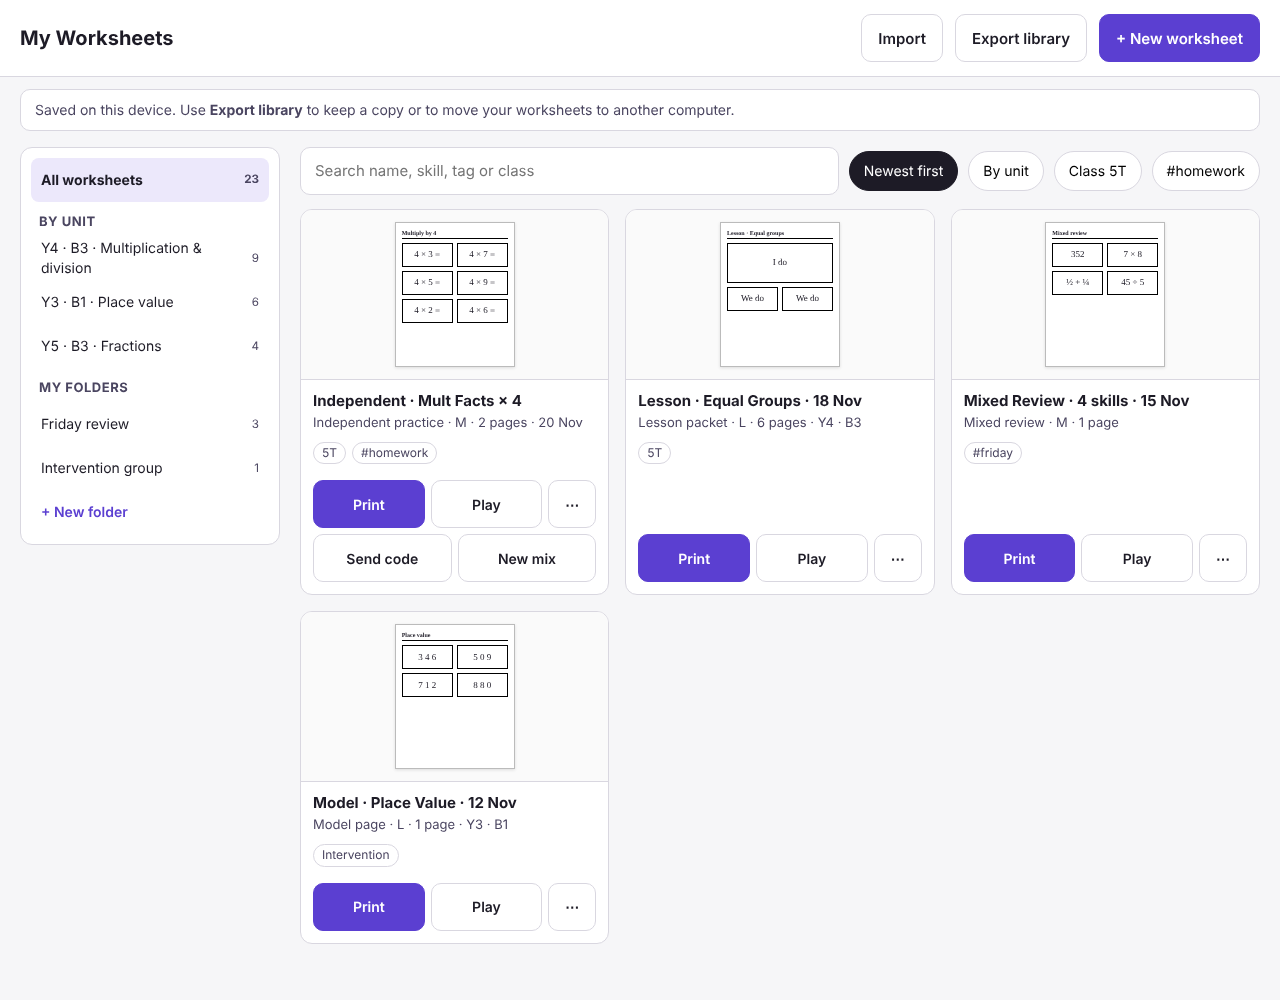
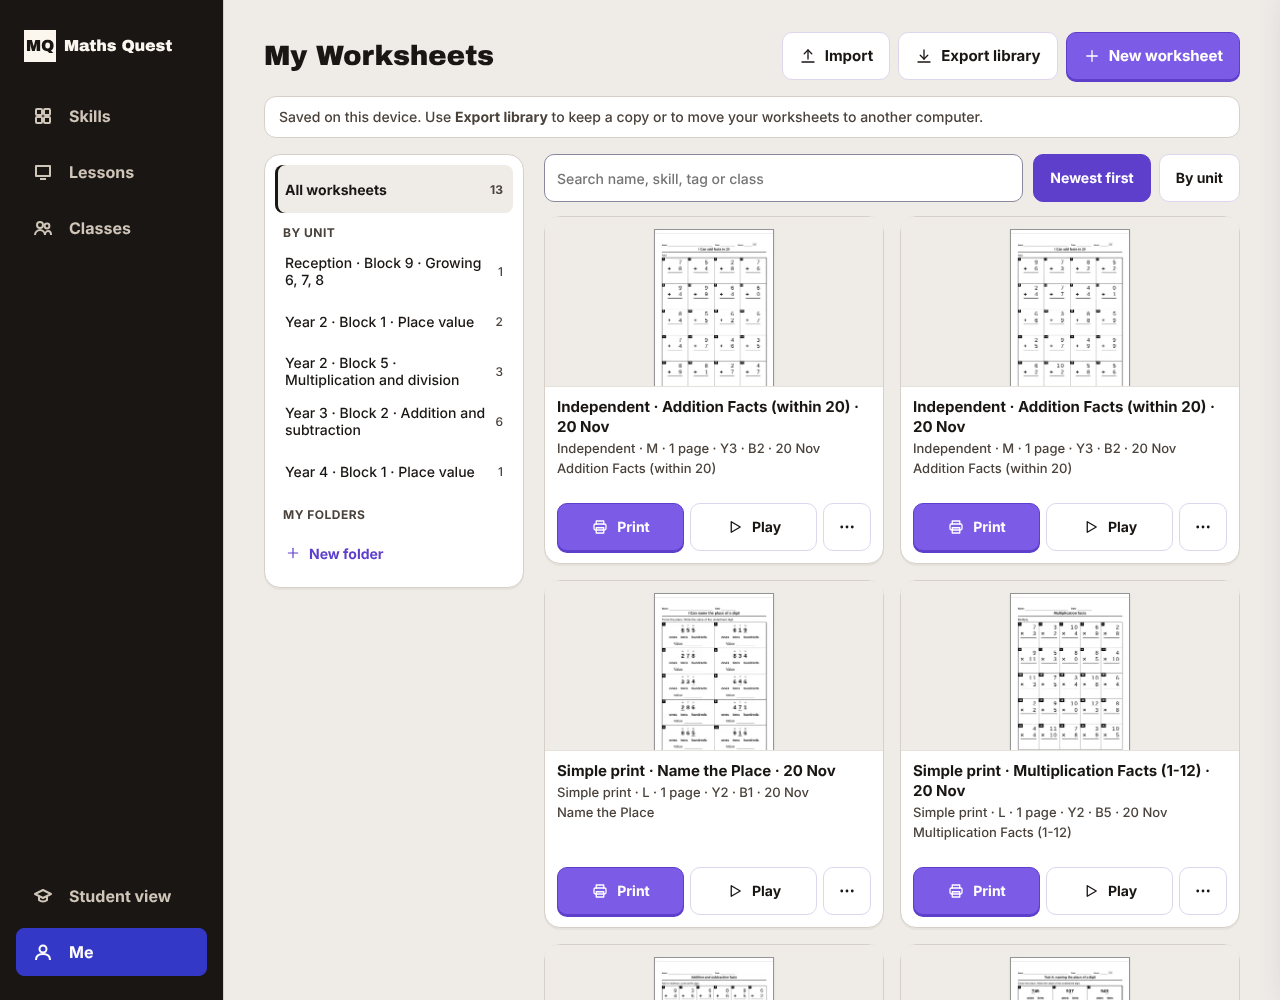
My Worksheets in the current teacher look (lead ruling A19): teacher classes and tokens only, no colour literal; THEME check; mock PNGs re-rendered from the real screen
Claude-Session: https://claude.ai/code/session_013pHDnKp2zeQMdpAwxxnVxS

diff --git a/css/my-worksheets.css b/css/my-worksheets.css
@@ -1,66 +1,63 @@
-/* my-worksheets.css — the My Worksheets screen and its dialogs (design/my-worksheets/CARD.md, mock.html).
-   Loaded by js/modules/my-worksheets.js when first used. Teacher tokens (--tv-*); every control 48 px (card §7). */
+/* my-worksheets.css — the My Worksheets screen and its dialogs (design/my-worksheets/CARD.md).
+   Loaded by js/modules/my-worksheets.js when first used. The CURRENT teacher look (lead ruling A19, owner 2026-11-20): the
+   screen reuses the teacher classes (.tv-btn, .tv-btn-primary, .tv-card, .tv-chip, .tv-menu, .tv-input, .tv-select) and only
+   the existing custom properties (--tv-* and css/teacher-tokens.css); no colour is written here (ws-my-worksheets THEME).
+   Layout and 48 px targets only (card §7). */
 
 .mws { display: flex; flex-direction: column; gap: 16px; }
 #teacherApp .mws .mws-b, .mws .mws-b { height: 48px; min-height: 48px; padding: 0 16px; }
 .mws-top { align-items: center; }
 .mws-acts-top { gap: 8px; }
-.mws-note, .mws-cap { margin: 0; padding: 10px 14px; border: 1px solid var(--tv-rule, #edeaf5); border-radius: 10px; background: var(--tv-surface, #fff); color: var(--tv-text-2, #4a4560); font-size: 14px; line-height: 20px; }
-.mws-cap { border-color: #c2410c; color: var(--tv-text, #1d1b26); }
+.mws-note, .mws-cap { margin: 0; padding: 10px 14px; border: 1px solid var(--tv-border); border-radius: 12px; background: var(--tv-surface); color: var(--tv-text-2); font-size: 14px; line-height: 20px; }
+.mws-cap { border-color: var(--key); color: var(--tv-text); }
 .mws-cap[hidden] { display: none; }
 .mws-wrap { display: grid; grid-template-columns: 260px minmax(0, 1fr); gap: 20px; align-items: start; }
-.mws-side { display: flex; flex-direction: column; gap: 2px; padding: 10px; background: var(--tv-surface, #fff); border: 1px solid var(--tv-rule, #edeaf5); border-radius: 12px; }
-.mws-side-h { margin: 10px 8px 4px; font-size: 12px; line-height: 16px; letter-spacing: .04em; text-transform: uppercase; color: var(--tv-text-2, #4a4560); font-weight: 700; }
-.mws-f { display: flex; align-items: center; justify-content: space-between; gap: 8px; min-height: 48px; padding: 4px 10px; border: 0; border-radius: 8px; background: transparent; color: var(--tv-text, #1d1b26); font: inherit; font-size: 14px; text-align: left; cursor: pointer; }
-.mws-f:hover { background: var(--tv-subtle, #f1eff8); }
-.mws-f[aria-current="true"] { background: var(--tv-accent-tint, #ece8fb); font-weight: 700; }
-.mws-f small { color: var(--tv-text-2, #4a4560); font-size: 12px; flex: none; }
-.mws-f-new { justify-content: flex-start; color: var(--tv-accent, #5b3fd1); font-weight: 700; }
+.mws .mws-side { padding: 10px; gap: 2px; }
+.mws-side-h { margin: 10px 8px 4px; font-size: 12px; line-height: 16px; letter-spacing: .04em; text-transform: uppercase; color: var(--tv-text-2); font-weight: 700; }
+.mws-f { display: flex; align-items: center; justify-content: space-between; gap: 8px; min-height: 48px; padding: 4px 10px; border: 0; border-radius: 8px; background: transparent; color: var(--tv-text); font: inherit; font-size: 14px; text-align: left; cursor: pointer; }
+.mws-f:hover { background: var(--tv-subtle); }
+.mws-f[aria-current="true"] { background: var(--tv-subtle); box-shadow: inset 3px 0 0 var(--tv-selected); font-weight: 700; }
+.mws-f small { color: var(--tv-text-2); font-size: 12px; flex: none; }
+.mws-f-new { justify-content: flex-start; color: var(--tv-accent); font-weight: 700; }
 .mws-main { min-width: 0; display: flex; flex-direction: column; gap: 14px; }
 .mws-bar { display: flex; flex-wrap: wrap; gap: 10px; align-items: center; }
 .mws-pick-l { display: none; }
-.mws-pick { min-height: 48px; padding: 0 12px; border: 1px solid var(--tv-control-soft, #d9d7e0); border-radius: 999px; background: var(--tv-surface, #fff); color: var(--tv-text, #1d1b26); font: inherit; font-size: 14px; max-width: 100%; }
-.mws-search { flex: 1 1 240px; min-width: 0; min-height: 48px; padding: 0 14px; border: 1px solid var(--tv-control-soft, #d9d7e0); border-radius: 10px; background: var(--tv-surface, #fff); color: var(--tv-text, #1d1b26); font: inherit; font-size: 15px; }
+.mws .tv-select.mws-pick { width: auto; max-width: 100%; height: 48px; min-height: 48px; }
+.mws .tv-input.mws-search { flex: 1 1 240px; width: auto; min-width: 0; height: 48px; min-height: 48px; }
 .mws-chips { display: flex; flex-wrap: wrap; gap: 8px; }
-.mws-chip { min-height: 48px; padding: 0 16px; border: 1px solid var(--tv-control-soft, #d9d7e0); border-radius: 999px; background: var(--tv-surface, #fff); color: var(--tv-text, #1d1b26); font: inherit; font-size: 14px; cursor: pointer; }
-.mws-chip[aria-pressed="true"] { background: var(--tv-selected, #1d1b26); border-color: var(--tv-selected, #1d1b26); color: var(--tv-on-selected, #fff); font-weight: 700; }
+.mws .tv-chip.mws-chip { height: 48px; min-height: 48px; padding: 0 16px; }
 .mws-folderline { display: flex; flex-wrap: wrap; align-items: center; gap: 8px; }
 .mws-folderline[hidden] { display: none; }
-.mws-folderline b { margin-right: 8px; }
+.mws-folderline b { margin-right: 8px; color: var(--tv-text); }
 .mws-grid { display: grid; grid-template-columns: repeat(auto-fill, minmax(230px, 1fr)); gap: 16px; }
-.mws-empty { margin: 0; padding: 24px; color: var(--tv-text-2, #4a4560); background: var(--tv-surface, #fff); border: 1px dashed var(--tv-control-soft, #d9d7e0); border-radius: 12px; }
-.mws-card { position: relative; display: flex; flex-direction: column; background: var(--tv-surface, #fff); border: 1px solid var(--tv-rule, #edeaf5); border-radius: 12px; }
+.mws-empty { margin: 0; padding: 24px; color: var(--tv-text-2); background: var(--tv-surface); border: 1px dashed var(--tv-border); border-radius: 12px; }
+.mws .tv-card.mws-card { position: relative; overflow: visible; }
 .mws-card.is-open { z-index: 20; }
-.mws-thumb { height: 170px; display: flex; justify-content: center; padding: 12px; background: #fafafa; border-bottom: 1px solid var(--tv-rule, #edeaf5); border-radius: 12px 12px 0 0; overflow: hidden; }
-.mws-thumb img { width: 120px; height: auto; align-self: flex-start; background: #fff; border: 1px solid #bbb; box-shadow: 0 1px 3px rgba(0, 0, 0, .12); }
-.mws-page { width: 120px; height: 170px; background: #fff; border: 1px solid #bbb; }
+.mws-thumb { height: 170px; display: flex; justify-content: center; padding: 12px; background: var(--tv-page); border-bottom: 1px solid var(--tv-rule); border-radius: 12px 12px 0 0; overflow: hidden; }
+.mws-thumb img { width: 120px; height: auto; align-self: flex-start; background: var(--paper); border: 1px solid var(--paper-grey); box-shadow: var(--shadow-1); }
+.mws-page { width: 120px; height: 170px; background: var(--paper); border: 1px solid var(--paper-grey); }
 .mws-meta { display: flex; flex-direction: column; gap: 2px; padding: 10px 12px 4px; }
-.mws-meta b { font-size: 15px; line-height: 20px; color: var(--tv-text, #1d1b26); overflow-wrap: anywhere; }
-.mws-meta span { font-size: 13px; line-height: 18px; color: var(--tv-text-2, #4a4560); }
-.mws-meta .mws-gone { color: #b42318; font-weight: 700; }
+.mws-meta b { font-size: 15px; line-height: 20px; color: var(--tv-text); overflow-wrap: anywhere; }
+.mws-meta span { font-size: 13px; line-height: 18px; color: var(--tv-text-2); }
+.mws-meta .mws-gone { color: var(--tv-danger); font-weight: 700; }
 .mws-tags { display: flex; flex-wrap: wrap; gap: 6px; padding: 6px 12px; }
-.mws-tag { font-size: 12px; line-height: 16px; padding: 2px 8px; border: 1px solid var(--tv-control-soft, #d9d7e0); border-radius: 999px; color: var(--tv-text-2, #4a4560); }
+.mws-tag { font-size: 12px; line-height: 16px; padding: 2px 8px; border: 1px solid var(--tv-control-soft); border-radius: 999px; color: var(--tv-text-2); }
 .mws-acts { display: grid; grid-template-columns: 1fr 1fr 48px; gap: 6px; padding: 10px 12px 12px; margin-top: auto; }
 .mws-acts .mws-b { padding: 0 8px; justify-content: center; font-size: 14px; }
 .mws-acts .mws-more { width: 48px; padding: 0; }
 .mws-menu-wrap { position: relative; }
-.mws-menu { position: absolute; right: 0; top: calc(100% + 4px); z-index: 30; min-width: 220px; padding: 6px; background: var(--tv-surface, #fff); border: 1px solid var(--tv-control-soft, #d9d7e0); border-radius: 10px; box-shadow: 0 8px 24px rgba(0, 0, 0, .16); }
-.mws-menu[hidden] { display: none; }
-.mws-menu button { display: flex; align-items: center; width: 100%; min-height: 48px; padding: 0 12px; border: 0; border-radius: 8px; background: transparent; color: var(--tv-text, #1d1b26); font: inherit; font-size: 15px; text-align: left; cursor: pointer; }
-.mws-menu button:hover, .mws-menu button:focus-visible { background: var(--tv-subtle, #f1eff8); }
-.mws-menu .is-danger { color: var(--tv-danger, #b42318); }
-.mws-menu hr { border: 0; border-top: 1px solid var(--tv-rule, #edeaf5); margin: 4px 0; }
-.mws-undo { position: sticky; bottom: 16px; align-self: center; display: flex; align-items: center; gap: 12px; padding: 8px 8px 8px 16px; background: var(--tv-selected, #1d1b26); color: #fff; border-radius: 12px; box-shadow: 0 8px 24px rgba(0, 0, 0, .2); z-index: 40; }
+.mws .tv-menu.mws-menu { z-index: 30; min-width: 220px; }
+.mws .tv-menu.mws-menu button { height: 48px; min-height: 48px; font-size: 15px; }
+.mws-undo { position: sticky; bottom: 16px; align-self: center; display: flex; align-items: center; gap: 12px; padding: 8px 8px 8px 16px; background: var(--tv-selected); color: var(--tv-on-selected); border-radius: 12px; box-shadow: var(--shadow-2); z-index: 40; }
 .mws-undo[hidden] { display: none; }
-.mws-undo .mws-b { background: #fff; color: var(--tv-text, #1d1b26); }
 
 /* the dialogs (Save, Rename / Move / Tags, a shared link) sit above every view, the simple print included */
 .mws-overlay { position: fixed; inset: 0; z-index: 10050; display: flex; align-items: center; justify-content: center; padding: 16px; }
-.mws-scrim { position: absolute; inset: 0; background: rgba(20, 18, 30, .45); }
-.mws-dialog { position: relative; width: min(520px, 100%); max-height: calc(100vh - 32px); overflow: auto; display: flex; flex-direction: column; gap: 6px; padding: 20px 24px; background: var(--tv-surface, #fff); color: var(--tv-text, #1d1b26); border-radius: 16px; box-shadow: 0 16px 48px rgba(0, 0, 0, .25); font-family: var(--tv-font, system-ui, sans-serif); }
-.mws-dh { margin: 0 0 8px; font-size: 20px; line-height: 28px; }
-.mws-p { margin: 0 0 8px; color: var(--tv-text-2, #4a4560); }
-.mws-dialog .mws-in { width: 100%; min-height: 48px; margin-bottom: 8px; box-sizing: border-box; font-size: 16px; }
+.mws-scrim { position: absolute; inset: 0; background: var(--scrim); }
+.mws-overlay .tv-card.mws-dialog { position: relative; width: min(520px, 100%); max-height: calc(100vh - 32px); overflow: auto; gap: 6px; padding: 20px 24px; box-shadow: var(--shadow-2); color: var(--tv-text); font-family: var(--tv-font); }
+.mws-dh { margin: 0 0 8px; font-size: 20px; line-height: 28px; color: var(--tv-text); }
+.mws-p { margin: 0 0 8px; color: var(--tv-text-2); }
+.mws-overlay .mws-dialog .mws-in { width: 100%; margin-bottom: 8px; box-sizing: border-box; font-size: 16px; }
 .mws-overlay .mws-dialog .mws-b { height: 48px; min-height: 48px; }
 .mws-overlay .mws-dialog .tv-input.mws-in, .mws-overlay .mws-dialog .tv-select.mws-in { height: 48px; min-height: 48px; }
 .mws-two { display: grid; grid-template-columns: 1fr 1fr; gap: 12px; }
@@ -70,6 +67,7 @@
 @media (max-width: 900px) {
     .mws-wrap { grid-template-columns: minmax(0, 1fr); }
     .mws-side { display: none; }
+    .mws .mws-side { display: none; }
     .mws-pick-l { display: inline-flex; }
 }
 @media (max-width: 1100px) {

diff --git a/js/modules/my-worksheets.js b/js/modules/my-worksheets.js
@@ -49,11 +49,11 @@ export function renderSheetsScreen(el) {
   <p class="mws-note">${NOTE}</p>
   <p class="mws-cap mws-cap-screen" hidden></p>
   <div class="mws-wrap">
-    <nav class="mws-side" aria-label="Folders"></nav>
+    <nav class="tv-card mws-side" aria-label="Folders"></nav>
     <div class="mws-main">
       <div class="mws-bar">
-        <label class="mws-pick-l"><span class="tv-sr">Folder</span><select id="mwsFolderPick" class="mws-pick" aria-label="Folder"></select></label>
-        <input id="mwsSearch" class="mws-search" type="search" placeholder="Search name, skill, tag or class" aria-label="Search name, skill, tag or class" autocomplete="off">
+        <label class="mws-pick-l"><span class="tv-sr">Folder</span><select id="mwsFolderPick" class="tv-select mws-pick" aria-label="Folder"></select></label>
+        <input id="mwsSearch" class="tv-input mws-search" type="search" placeholder="Search name, skill, tag or class" aria-label="Search name, skill, tag or class" autocomplete="off">
         <div class="mws-chips" role="group" aria-label="Sort and filter"></div>
       </div>
       <div class="mws-folderline" hidden></div>
@@ -133,7 +133,7 @@ function draw() {
     const chips = [['sort', 'date', 'Newest first', ui.sort === 'date'], ['sort', 'unit', 'By unit', ui.sort === 'unit']]
         .concat((ui.meta.classes || []).map((k) => ['chip', `cls:${k}`, `Class ${k}`, ui.chip === `cls:${k}`]))
         .concat((ui.meta.tags || []).map((t) => ['chip', `tag:${t}`, `#${t}`, ui.chip === `tag:${t}`]));
-    root.querySelector('.mws-chips').innerHTML = chips.map(([a, v, l, on]) => `<button type="button" class="mws-chip" data-mws="${a}" data-v="${esc(v)}" aria-pressed="${on}">${esc(l)}</button>`).join('');
+    root.querySelector('.mws-chips').innerHTML = chips.map(([a, v, l, on]) => `<button type="button" class="tv-chip mws-chip" data-mws="${a}" data-v="${esc(v)}" aria-pressed="${on}">${esc(l)}</button>`).join('');
     // the open folder's own controls (rename; delete when empty)
     const fl = root.querySelector('.mws-folderline');
     const f = ui.folder && ui.meta.folders.find((x) => x.id === ui.folder);
@@ -158,10 +158,10 @@ function cardHTML(r) {
     const names = skills.slice(0, 3).map((k) => L.skillName(k.categoryId, k.skillId));
     const gone = L.missingSkills(r).length;
     const pages = r.pages ? `${r.pages} page${r.pages === 1 ? '' : 's'}` : '';
-    const meta = [L.pageTypeOf(r), L.sizeOf(r), pages, r.unit && r.unit.block ? r.unit.block.replace(/^Y(\d)\.B(\d+)$/, 'Y$1 · B$2') : '', L.dayText(r.updatedAt)].filter(Boolean).join(' · ');
+    const meta = [L.pageTypeOf(r), L.sizeOf(r), pages, r.unit && r.unit.block ? r.unit.block.replace(/^([A-Z]+\d*)\.B(\d+)$/, '$1 · B$2') : '', L.dayText(r.updatedAt)].filter(Boolean).join(' · ');
     const open = ui.menu === r.id;
     const mi = (act, label, extra = '') => `<button type="button" role="menuitem" data-mws="${act}"${extra}>${label}</button>`;
-    return `<article class="mws-card${open ? ' is-open' : ''}" data-id="${esc(r.id)}">
+    return `<article class="tv-card tv-flush mws-card${open ? ' is-open' : ''}" data-id="${esc(r.id)}">
   <div class="mws-thumb">${r.thumb ? `<img src="${esc(r.thumb)}" alt="Page 1 of ${esc(r.name)}" width="120">` : '<div class="mws-page" aria-hidden="true"></div>'}</div>
   <div class="mws-meta"><b class="mws-name">${esc(r.name)}</b><span>${esc(meta)}</span><span class="mws-skills">${esc(names.join(', '))}${skills.length > 3 ? ` + ${skills.length - 3} more` : ''}</span>
   ${gone ? `<span class="mws-gone">${gone} skill${gone === 1 ? ' is' : 's are'} no longer in the app</span>` : ''}</div>
@@ -170,7 +170,7 @@ function cardHTML(r) {
     <button type="button" class="tv-btn tv-btn-primary mws-b" data-mws="print">${icon('print', 18)}<span>Print</span></button>
     <button type="button" class="tv-btn mws-b" data-mws="play" aria-label="Open interactive: ${esc(r.name)}">${icon('play', 18)}<span>Play</span></button>
     <div class="mws-menu-wrap"><button type="button" class="tv-btn mws-b mws-more" data-mws="menu" aria-haspopup="true" aria-expanded="${open}" aria-label="More for ${esc(r.name)}">${icon('dots', 18)}</button>
-    <div class="mws-menu" role="menu"${open ? '' : ' hidden'}>
+    <div class="tv-menu mws-menu" role="menu"${open ? '' : ' hidden'}>
       ${mi('send', 'Send code')}${mi('newmix', 'New mix')}${mi('edit', 'Edit')}${mi('rename', 'Rename')}${mi('move', 'Move to folder')}${mi('tags', 'Tags and class')}${mi('duplicate', 'Duplicate')}${mi('set', 'Send as a set')}<hr>${mi('delete', 'Delete', ' class="is-danger"')}
     </div></div>
   </div>
@@ -346,7 +346,7 @@ function openOverlay(id, html, label) {
     const o = document.createElement('div');
     o.id = id;
     o.className = 'mws-overlay';
-    o.innerHTML = `<div class="mws-scrim"></div><div class="mws-dialog" role="dialog" aria-modal="true" aria-label="${esc(label)}">${html}</div>`;
+    o.innerHTML = `<div class="mws-scrim"></div><div class="tv-card mws-dialog" role="dialog" aria-modal="true" aria-label="${esc(label)}">${html}</div>`;
     document.body.appendChild(o);
     o.addEventListener('keydown', (e) => {
         if (e.key === 'Escape') { e.preventDefault(); e.stopPropagation(); closeOverlay(id); return; }
